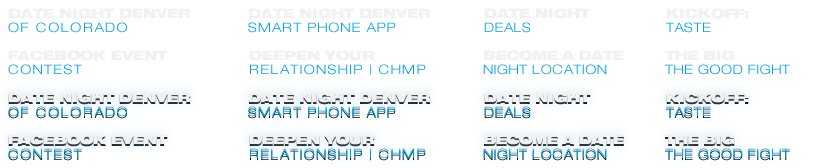
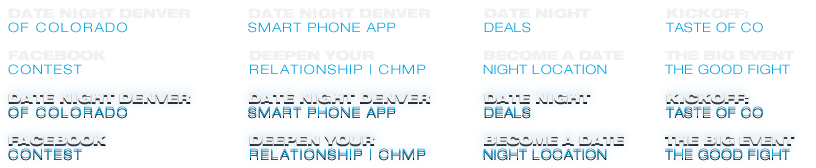
Added more crap

diff --git a/content/program.html b/content/program.html
@@ -1,5 +1,5 @@
 <div class="heading">
-	<img src="<?=$site_url?>/images/header_001.jpg" height="71" width="575" alt="Date Night Challenge Palm Beach Program">
+	<img src="<?=$site_url?>/images/dnd_sp.jpg" height="71" width="575" alt="Date Night Challenge Palm Beach Program">
 </div>
 <h2>Download the FREE Date Night Denver App and “Get Your Date On!”</h2>
 <p>Download our FREE Date Night Denver App with lots of great things to do in the Portland/Vancouver metro areas: Date Night Conversations, Date Night Ideas, and some fun Date Night Couple’s Quizzes. Each of these elements are designed to keep you engaged in your relationship and help you "Get Your Date On!"</p>

diff --git a/styles/common.v2.css b/styles/common.v2.css
@@ -64,7 +64,7 @@ this element is the one that *you* will style the most.
 
 /* Style Tags */
 body {
-	background:#020202 url(../images/denver_bg.jpg) no-repeat center top;
+	background:#020202 url(../images/dnDenver_BG.jpg) no-repeat center top;
 	color:#fff;
 	font-family:"Helvetica Neue", Helvetica, Arial, sans-serif;
 	} 

diff --git a/index.php b/index.php
@@ -5,7 +5,7 @@ $meta_keywords = 'Date Night, Date, Denver, CO, Colorado, Marriage, Commitment, 
 $meta_robots_index = 'index';
 $meta_robots_follow = 'follow';
 $favicon = '';
-$site_url = 'http://localhost:8888/dnc_web/example/';
+$site_url = 'http://dev.jklb.co/denver/';
 
 $modal_width = 750;
 $modal_height = 520;
@@ -66,14 +66,14 @@ if( !empty($favicon) )
 <div id="mainContainer">
 
 <ul id="mainMenu">
-	<li class="mnuProgram"><a href="<?=$site_url?>modal.php?p=program" class="blockLink" rel="shadowbox;width=<?=$modal_width?>;height=<?=$modal_height?>">Program</a></li>
-	<li class="mnuLocations"><a href="http://pdx.makeadatenight.com/?page_id=87" class="blockLink" rel="shadowbox;width=<?=$modal_width?>;height=<?=$modal_height?>">Deals</a></li>
-	<li class="mnuConcierge"><a href="http://pdx.makeadatenight.com/?page_id=106" class="blockLink" rel="shadowbox;width=<?=$modal_width?>;height=<?=$modal_height?>">Events</a></li>
+	<li class="mnuProgram"><a href="<?=$site_url?>modal.php?p=about" class="blockLink" rel="shadowbox;width=<?=$modal_width?>;height=<?=$modal_height?>">Program</a></li>
+	<li class="mnuLocations"><a href="<?=$site_url?>modal.php?p=program" class="blockLink" rel="shadowbox;width=<?=$modal_width?>;height=<?=$modal_height?>">Deals</a></li>
+	<li class="mnuConcierge"><a href="http://pdx.makeadatenight.com/?page_id=87" class="blockLink" rel="shadowbox;width=<?=$modal_width?>;height=<?=$modal_height?>">Events</a></li>
 	<li class="mnuFight"><a href="http://pdx.makeadatenight.com/?page_id=106" class="blockLink" rel="shadowbox;width=<?=$modal_width?>;height=<?=$modal_height?>">The Good Fight</a></li>
-	<li class="mnuHope"><a href="<?=$site_url?>modal.php?p=support" class="blockLink" rel="shadowbox;width=750;height=<?=$modal_height?>">Support</a></li>
+	<li class="mnuHope"><a href="http://www.facebook.com/DateNightDenver" class="blockLink" target="_blank">Support</a></li>
 	<li class="mnuHelp"><a href="https://www.couplecheckup.com/launch/go_nwfs.html" class="blockLink" rel="shadowbox;width=750;height=<?=$modal_height?>">Couples Checkup</a></li>
 	<li class="mnuParticipate"><a href="http://partners.datenightpdx.org" class="blockLink" rel="shadowbox;width=645;height=<?=$modal_height?>">Participate</a></li>
-	<li class="mnuKick"><a href="https://www.couplecheckup.com/launch/go_nwfs.html" class="blockLink" rel="shadowbox;width=750;height=<?=$modal_height?>">Kickoff</a></li>
+	<li class="mnuKick"><a href="http://fight-night.eventbrite.com" rel="shadowbox;width=970;height=<?=$modal_height?>" class="blockLink">Kickoff</a></li>
 </ul>
 
 <div class="contentContainer">
@@ -91,7 +91,7 @@ if( !empty($favicon) )
 					<p>Go on Three Dates in Three Weeks beginning September 10, 2012.  Your relationship needs YOU! <a href="/modal.php?p=program" rel="shadowbox;width=635;height=520">Downloading the APP</a> helps you design, discover, develop and deepen your Relationships. <strong>Get your Date night on!</strong></p>
 				</div><!-- copy-left -->
 				<div class="video">
-					<a href="<?=$site_url?>modal.php?p=slide_01" rel="shadowbox;width=800;height=450"><img src="<?=$site_url?>images/pdx_video.png" /></a>
+					<a href="<?=$site_url?>modal.php?p=slide_01" rel="shadowbox;width=800;height=450"><img src="<?=$site_url?>images/video_01.png" /></a>
 				</div><!-- video -->
 			</div><!-- slide_01 -->
 			
@@ -125,13 +125,13 @@ if( !empty($favicon) )
 			
 			<div class="slide_04">
 				<div class="content">
-					<h1>Couple Checkup</h1>
-					<h4 style="margin-top:-5px;margin-bottom:15px;">by Prepare &amp; Enrich</h4>
-					<p>The Couple Checkup is a highly respected and nationally recognized relationship assessment tool used by professional counselors and therapists. The checkup normally costs $29 per couple, but Date Night PDX invites you to take the checkup for FREE by clicking on the provided link and entering this code: <b><em>DATENT-CKUP-2TFFWA</em></b></p>
-					<p style="font-size:12px;">The assessment takes approximately 20 minutes to complete and the feedback you receive is designed to be constructive and encouraging. Couple Checkup has helped thousands take their relationship to a greater level of satisfaction and fulfillment. Take the checkup!</p>
+					<h1>3 Dates - 3 Weeks</h1>
+					<h4 style="margin-top:-5px;margin-bottom:15px;">Get your Date night on!</h4>
+					<p>Suspendisse urna lacus, aliquam at molestie vitae, rutrum id elit. Maecenas iaculis nulla ut turpis lobortis et ornare massa iaculis. Nunc lorem urna, imperdiet quis ultrices non.</p>
+					<p style="font-size:12px;">Nulla lorem eros, vulputate eget pulvinar sed, placerat eget dolor. Cras a metus porttitor leo molestie blandit quis nec lectus.</p>
 				</div><!-- copy-left -->
 				<div class="video">
-					<a href="https://www.couplecheckup.com/launch/go_nwfs.html" rel="shadowbox;width=750;height=<?=$modal_height?>"><img src="<?=$site_url?>images/slide_04.png" alt="TAKE THE COUPLES CHECKUP"/></a>
+					<a href="http://datenightpdx.us5.list-manage.com/subscribe/post?u=ef7a1e615a3f8ca0fadd65bb0&amp;id=116092cd53" rel="shadowbox;width=750;height=<?=$modal_height?>"><img src="<?=$site_url?>images/3_dates.png" alt="TAKE THE COUPLES CHECKUP"/></a>
 				</div><!-- video -->
 			</div><!-- slide_04 -->
 		
@@ -165,8 +165,8 @@ if( !empty($favicon) )
 </div>
 <div class="socialDiv">
 	<ul>
-    	<li><a href="https://www.facebook.com/groups/371633999558621/" target="_blank">facebook</a></li>
-        <li><a href="http://twitter.com/datenightpdx" target="_blank">twitter</a></li>
+    	<li><a href="http://www.facebook.com/DateNightDenver" target="_blank">facebook</a></li>
+        <li><a href="http://twitter.com/datenightdenver" target="_blank">twitter</a></li>
     </ul>
 </div>
 <ul id="footerMenu">

diff --git a/modal.php b/modal.php
@@ -2,7 +2,7 @@
 $meta_title = 'Date Night PDX';
 $meta_robots_index = 'index';
 $meta_robots_follow = 'follow';
-$site_url = 'http://localhost:8888/dnc_web/example/';
+$site_url = 'http://dev.jklb.co/denver/';
 
 $page = isset($_GET['p']) ? $_GET['p'] : '';
 ?>
